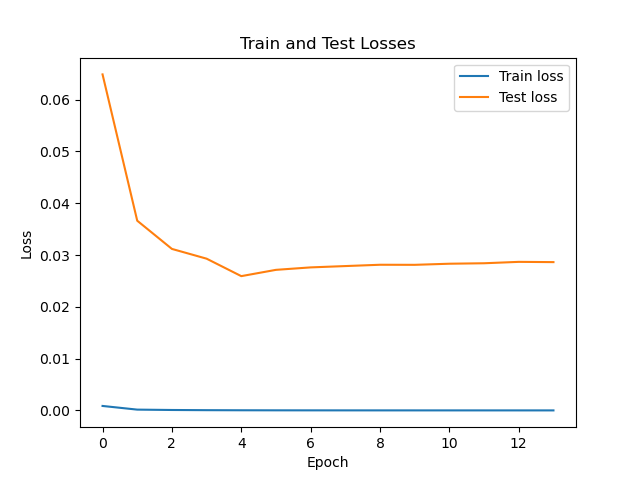
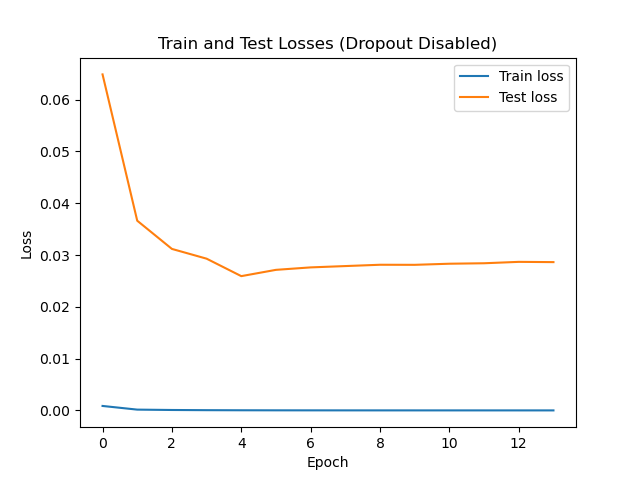
gpu mnist graph title

Changed region(s): [[0.25, 0.0625, 0.7812, 0.125]]

diff --git a/gpu/mnist/main.py b/gpu/mnist/main.py
@@ -120,7 +120,7 @@ def main():
         suffix_filename += '_reverse_data'
 
     if args.read_only:
-        plot_losses(suffix_filename)
+        plot_losses(suffix_filename, args.disable_dropout, args.reverse_data)
         return
 
     use_cuda = not args.no_cuda and torch.cuda.is_available()
@@ -174,9 +174,15 @@ def main():
     if args.save_model:
         torch.save(model.state_dict(), f"exports/mnist_cnn_{suffix_filename}.pt")
 
-def plot_losses(suffix_filename):
+def plot_losses(suffix_filename, disable_dropout = False, reverse_data = False):
     import matplotlib.pyplot as plt
     import pandas as pd
+
+    title = 'Train and Test Losses'
+    if disable_dropout:
+        title += ' (Dropout Disabled)'
+    if reverse_data:
+        title += ' (Reverse Data)'
 
     # Plot 2 losses graph with epoch as legend
     losses = pd.read_csv(f'exports/losses_{suffix_filename}.csv')
@@ -185,7 +191,7 @@ def plot_losses(suffix_filename):
     plt.legend()
     plt.xlabel('Epoch')
     plt.ylabel('Loss')
-    plt.title('Train and Test Losses')
+    plt.title(title)
     plt.savefig(f'exports/losses_{suffix_filename}.png')
     # plt.show()
 
